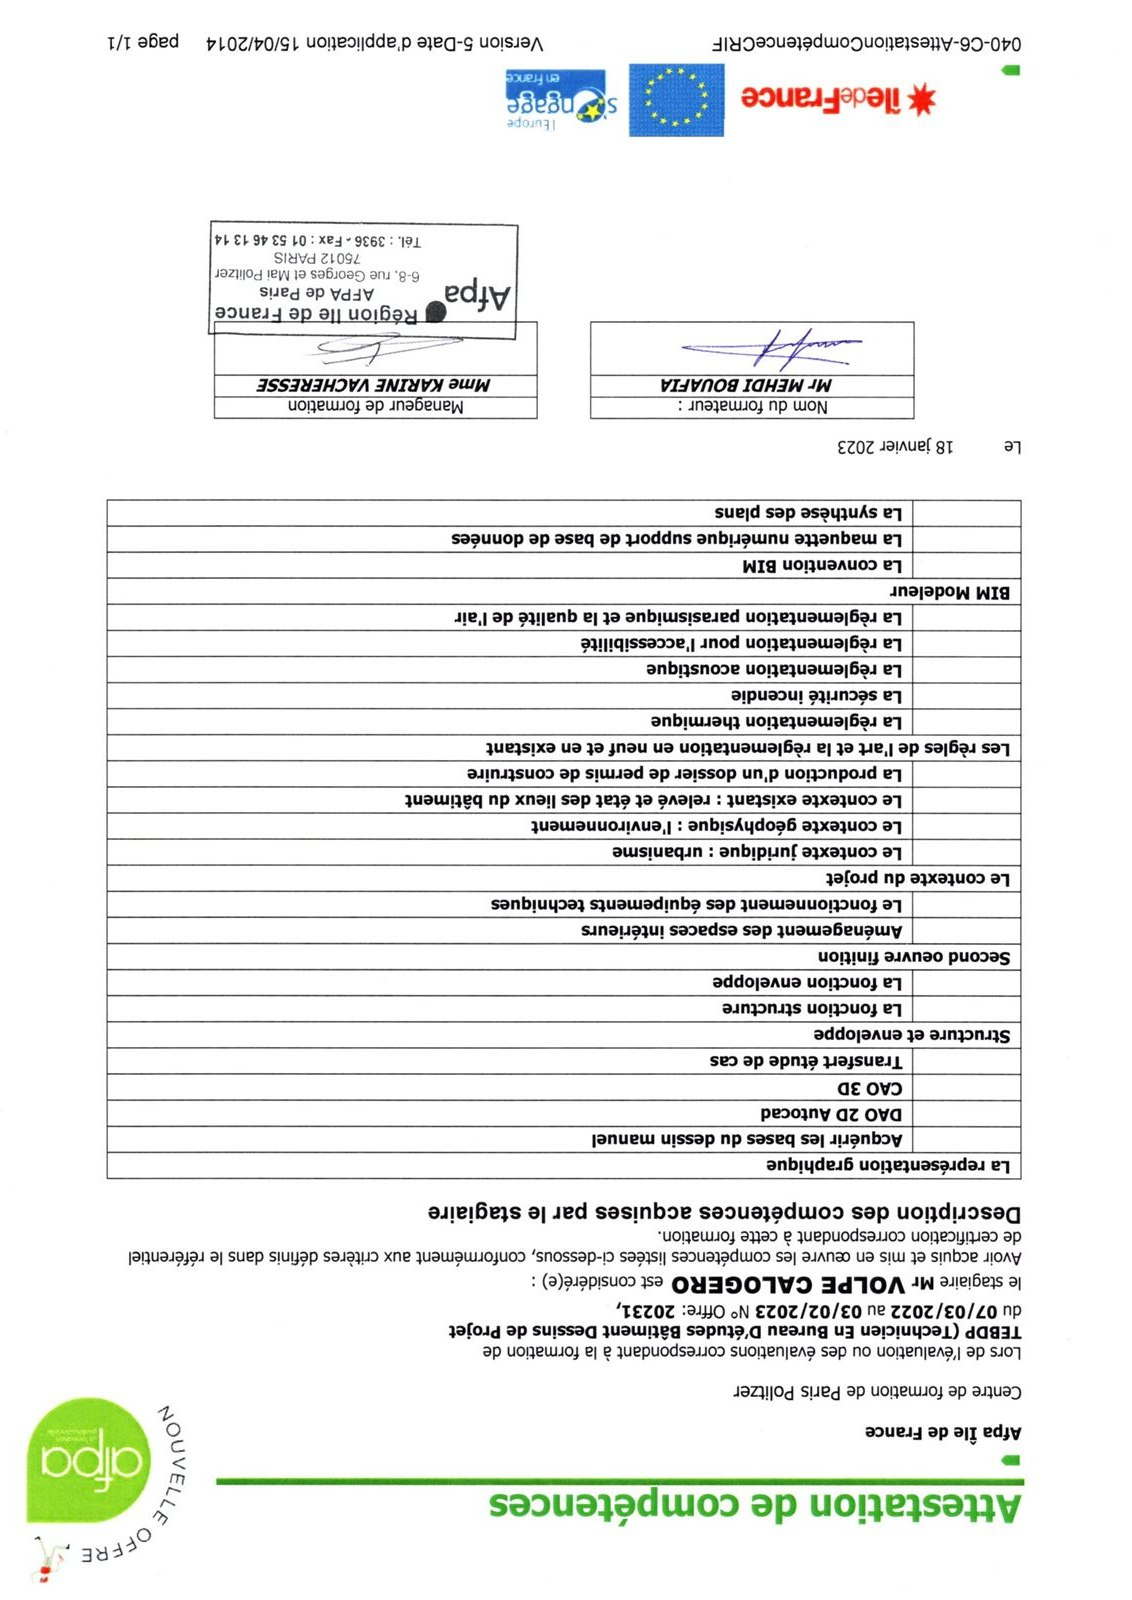
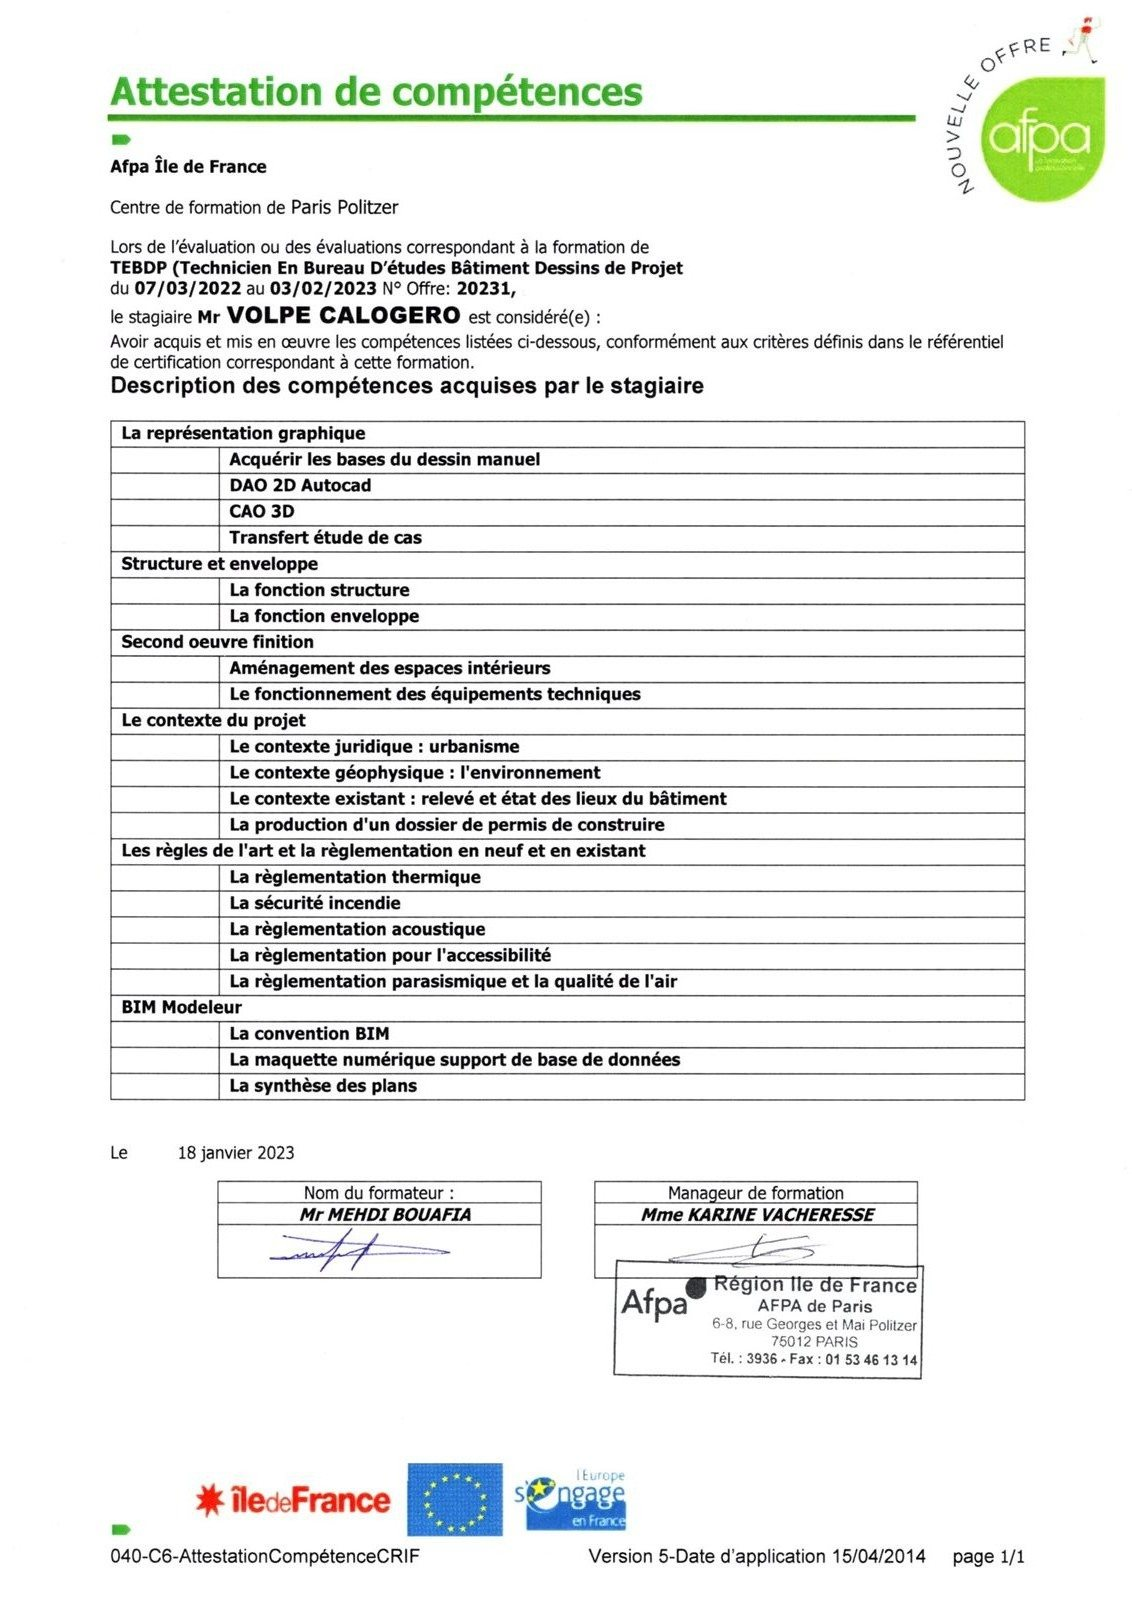
fix(visionneuse): zoom des images, contraste des boutons et attestation AFPA redressee

Changed region(s): [[0.0, 0.0, 0.9894, 1.0]]

diff --git a/assets/js/viewer.js b/assets/js/viewer.js
@@ -1,7 +1,8 @@
 /* Volpe Calogero — Dessinateur projeteur CAO/DAO — visionneuse de planches.
    Confort ajouté par JavaScript (amélioration progressive) : l'ouverture et la
    fermeture de l'aperçu fonctionnent déjà en CSS pur (:target). Ce module ajoute
-   la navigation à la molette et au clavier, et les boutons précédent / suivant. */
+   la navigation à la molette et au clavier, les boutons précédent / suivant et
+   le zoom des images (clic sur l'image ou bouton). */
 (function () {
   'use strict';
 
@@ -14,11 +15,42 @@
     }
     return -1;
   }
+  function boite(v) { return v.querySelector('.visionneuse-boite'); }
+  function estZoom(v) {
+    var b = boite(v);
+    return !!(b && b.classList.contains('est-zoom'));
+  }
+  function majBoutonZoom(vues) {
+    var i = actif(vues);
+    if (i < 0) { return; }
+    var b = vues[i].querySelector('[data-role="zoom"]');
+    if (!b) { return; }
+    var z = estZoom(vues[i]);
+    b.setAttribute('aria-pressed', z ? 'true' : 'false');
+    b.setAttribute('aria-label', z ? "Réduire l'image" : "Zoomer l'image");
+    b.textContent = z ? '−' : '+';
+  }
+  function resetZoom(vues) {
+    vues.forEach(function (v) {
+      var b = boite(v);
+      if (b) { b.classList.remove('est-zoom'); }
+    });
+    majBoutonZoom(vues);
+  }
+  function basculerZoom(vues) {
+    var i = actif(vues);
+    if (i < 0) { return; }
+    var b = boite(vues[i]);
+    if (!b) { return; }
+    b.classList.toggle('est-zoom');
+    if (b.classList.contains('est-zoom')) { b.scrollTop = 0; b.scrollLeft = 0; }
+    majBoutonZoom(vues);
+  }
   function pas(vues, dir) {
     var i = actif(vues);
     if (i < 0) { return; }
     var j = Math.min(vues.length - 1, Math.max(0, i + dir));
-    if (j !== i) { window.location.hash = vues[j].id; }
+    if (j !== i) { resetZoom(vues); window.location.hash = vues[j].id; }
   }
   function fermer() { window.location.hash = 'dessins-autocad'; }
 
@@ -26,33 +58,60 @@
     var vues = liste();
     if (!vues.length) { return; }
 
-    /* Boutons précédent / suivant, un jeu par aperçu. */
+    /* Boutons précédent / suivant / zoom, un jeu par aperçu. */
     vues.forEach(function (v) {
       var nav = document.createElement('div');
       nav.className = 'visionneuse-nav';
       nav.innerHTML =
-        '<button type="button" class="visionneuse-btn" data-dir="-1" aria-label="Planche précédente">\u2039</button>' +
-        '<button type="button" class="visionneuse-btn" data-dir="1" aria-label="Planche suivante">\u203a</button>';
+        '<button type="button" class="visionneuse-btn" data-role="zoom" aria-label="Zoomer l&#39;image" aria-pressed="false">+</button>' +
+        '<button type="button" class="visionneuse-btn" data-dir="-1" aria-label="Planche précédente">‹</button>' +
+        '<button type="button" class="visionneuse-btn" data-dir="1" aria-label="Planche suivante">›</button>';
       Array.prototype.forEach.call(nav.querySelectorAll('button'), function (b) {
-        b.addEventListener('click', function () { pas(vues, parseInt(b.getAttribute('data-dir'), 10)); });
+        if (b.getAttribute('data-role') === 'zoom') {
+          b.addEventListener('click', function () { basculerZoom(vues); });
+        } else {
+          b.addEventListener('click', function () { pas(vues, parseInt(b.getAttribute('data-dir'), 10)); });
+        }
       });
       v.appendChild(nav);
+
+      /* Clic sur l'image : bascule du zoom. */
+      var img = v.querySelector('.visionneuse-boite img');
+      if (img) { img.addEventListener('click', function () { basculerZoom(vues); }); }
     });
 
-    /* Clavier : flèches et Échap. */
+    /* Clavier : Échap ferme ; flèches et + / - ; quand l'image est zoomée, les
+       flèches font défiler l'image au lieu de changer de planche. */
     document.addEventListener('keydown', function (e) {
-      if (actif(vues) < 0) { return; }
+      var i = actif(vues);
+      if (i < 0) { return; }
+      var b = boite(vues[i]);
+      var z = estZoom(vues[i]);
       if (e.key === 'Escape') { fermer(); }
+      else if (e.key === '+' || e.key === '=') { if (!z) { e.preventDefault(); basculerZoom(vues); } }
+      else if (e.key === '-' || e.key === '_') { if (z) { e.preventDefault(); basculerZoom(vues); } }
+      else if (z) {
+        if (e.key === 'ArrowLeft') { e.preventDefault(); if (b) { b.scrollLeft -= 80; } }
+        else if (e.key === 'ArrowRight') { e.preventDefault(); if (b) { b.scrollLeft += 80; } }
+        else if (e.key === 'ArrowUp') { e.preventDefault(); if (b) { b.scrollTop -= 80; } }
+        else if (e.key === 'ArrowDown') { e.preventDefault(); if (b) { b.scrollTop += 80; } }
+      }
       else if (e.key === 'ArrowUp' || e.key === 'ArrowLeft') { e.preventDefault(); pas(vues, -1); }
       else if (e.key === 'ArrowDown' || e.key === 'ArrowRight') { e.preventDefault(); pas(vues, 1); }
     });
 
-    /* Molette : haut = planche précédente, bas = planche suivante. */
+    /* Molette : haut = planche précédente, bas = planche suivante.
+       Image zoomée : la molette fait défiler l'image (défilement natif). */
     document.addEventListener('wheel', function (e) {
-      if (actif(vues) < 0) { return; }
+      var i = actif(vues);
+      if (i < 0) { return; }
+      if (estZoom(vues[i])) { return; }
       e.preventDefault();
       pas(vues, e.deltaY > 0 ? 1 : -1);
     }, { passive: false });
+
+    /* Chaque ouverture ou fermeture repart en mode « ajusté ». */
+    window.addEventListener('hashchange', function () { resetZoom(vues); });
   }
 
   if (document.readyState === 'loading') { document.addEventListener('DOMContentLoaded', construire); }

diff --git a/assets/css/style.css b/assets/css/style.css
@@ -1937,6 +1937,28 @@ html[data-theme="clair"] {
   height: auto;
   background: #ffffff;
 }
+
+/* — Zoom des images (boutons et clic injectés par JavaScript) — */
+.visionneuse-boite img { cursor: zoom-in; }
+.visionneuse-boite.est-zoom {
+  overflow: auto;
+  overscroll-behavior: contain;
+  cursor: zoom-out;
+}
+.visionneuse-boite.est-zoom img {
+  max-width: none;
+  max-height: none;
+  flex: none;
+  cursor: zoom-out;
+}
+.visionneuse-btn[data-role="zoom"] {
+  top: 0.85rem;
+  left: 0.85rem;
+  transform: none;
+  width: 2.2rem;
+  height: 2.2rem;
+  font-size: 1.2rem;
+}
 .visionneuse-boite figcaption {
   padding: 0.5rem 0.75rem;
   border-top: 1px solid var(--filet);
@@ -1955,10 +1977,10 @@ html[data-theme="clair"] {
   justify-content: center;
   width: 2.2rem;
   height: 2.2rem;
-  border: 1px solid var(--trait);
+  border: 1px solid #ffffff;
   border-radius: 999px;
-  background: rgba(10, 22, 34, 0.92);
-  color: var(--encre);
+  background: #ffffff;
+  color: #0b1a2b;
   text-decoration: none;
   font-size: 1.1rem;
   line-height: 1;
@@ -1974,10 +1996,10 @@ html[data-theme="clair"] {
   z-index: 3;
   width: 2.6rem;
   height: 3.4rem;
-  border: 1px solid var(--trait);
+  border: 1px solid #ffffff;
   border-radius: 6px;
-  background: rgba(10, 22, 34, 0.9);
-  color: var(--encre);
+  background: #ffffff;
+  color: #0b1a2b;
   font: inherit;
   font-size: 1.5rem;
   line-height: 1;

diff --git a/memory-bank/activeContext.md b/memory-bank/activeContext.md
@@ -4,7 +4,7 @@ Projet : « Volpe Calogero — Dessinateur projeteur CAO/DAO »
 Dépôt : calogerovolpe/mes-realisations-batiments — branche main, GitHub Pages (racine).
 URL : https://calogerovolpe.github.io/mes-realisations-batiments/
 
-État : version CAO/DAO close (3 jalons) ; compléments en cours. Dernier complément : 11 octobre 2026 (audit mobile first — cartouche accueil sur une colonne, zone sûre iOS, breakpoints harmonisés). Avant : correction responsive des fiches .spec ; navigation de fin de page, pied de page structuré, groupe Revit, rapport de stage publié au téléchargement.
+État : version CAO/DAO close (3 jalons) ; compléments en cours. Dernier complément : 11 octobre 2026 (visionneuse — zoom des images, contraste des boutons en thème clair/sombre et attestation AFPA redressée). Avant : audit mobile first (cartouche accueil une colonne, zone sûre iOS, breakpoints) ; fiche .spec responsive ; navigation de fin de page, pied de page structuré, groupe Revit, rapport de stage téléchargeable.
 - Portfolio : 35 planches en 8 groupes — captures d'écran AutoCAD (A01-A09) ;
   relevé d'existant (A10-A12 réalisés par une entreprise externe + PH·01-PH·02
   réalisés personnellement pour le patrimoine bâti municipal, diffusés avec
@@ -105,6 +105,19 @@ Complément (11 octobre 2026) — audit mobile first
   acquises » (.chrono-bulle) accessible au survol/clavier seulement (le contenu
   reste disponible via la modale « Voir le détail ») ; JavaScript ≈ 25,6 Ko
   (> limite de 24 Ko de la règle 04).
+
+
+Complément (11 octobre 2026) — visionneuse : zoom, contraste des boutons, attestation
+- Zoom des images dans l'aperçu (.visionneuse), ajouté par JavaScript (assets/js/viewer.js) :
+  clic sur l'image ou bouton « +/− » (en haut à gauche) pour basculer entre ajusté et taille
+  réelle ; l'image zoomée défile à la molette, aux flèches et au pavé tactile (le défilement
+  remplace alors le changement de planche) ; le zoom est réinitialisé à chaque ouverture,
+  fermeture ou changement de planche. Sans JavaScript, l'aperçu reste affiché en ajusté.
+- Boutons de la visionneuse (flèches ‹ › et croix de fermeture) : fond blanc et glyphes encre,
+  indépendants du thème. L'aperçu étant toujours posé sur un fond sombre, les couleurs liées
+  au thème (var(--encre)) les rendaient illisibles en thème clair. Règle dans assets/css/style.css.
+- Attestation de compétence AFPA (assets/img/attestation-competence-afpa.jpg) : redressée
+  (rotation 180°) et ré-encodée sous 300 Ko.
 
 Décisions verrouillées
 - Nom « Volpe Calogero » autorisé partout (ordre fixé).

diff --git a/memory-bank/progress.md b/memory-bank/progress.md
@@ -66,6 +66,15 @@ Version CAO/DAO — 3 jalons, un jalon = une conversation = un commit.
       optionnels : zones tactiles < 44 px, bulle de compétences sur mobile,
       poids du JavaScript (> 24 Ko).
 
+
+- [x] Correctif visionneuse (11 octobre 2026) : zoom des images dans les aperçus (clic sur
+      l'image ou bouton « +/− » injecté par JavaScript ; défilement de l'image zoomée à la
+      molette, aux flèches et au pavé tactile ; zoom réinitialisé à chaque ouverture) ;
+      contraste des boutons de la visionneuse (flèches précédent / suivant et croix de
+      fermeture) — fond blanc et glyphes encre au lieu de couleurs liées au thème,
+      illisibles en thème clair sur le fond sombre de l'aperçu ; attestation de compétence
+      AFPA redressée (rotation 180°) et ré-encodée sous 300 Ko.
+
 - [ ] Adresse e-mail de contact mise à jour → contact@calogero-volpe.eu (contact.html,
       parcours.html, memory-bank). Reste à faire : le CV PDF publié affiche encore
       l'ancienne adresse (texte vectoriel en police sous-ensemble) — le régénérer depuis
